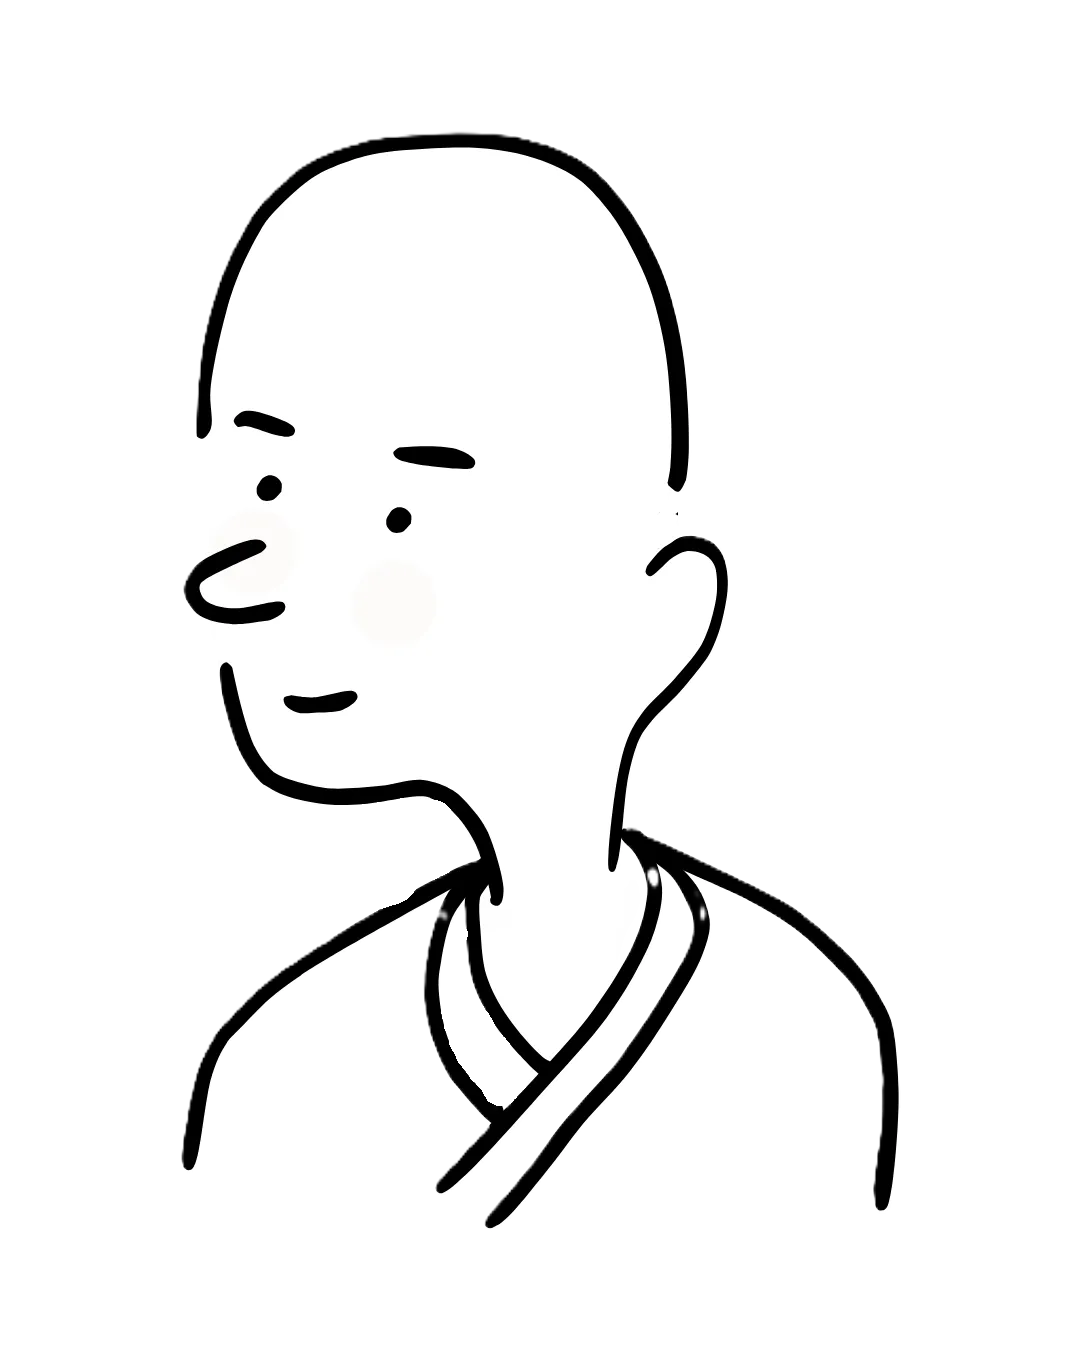
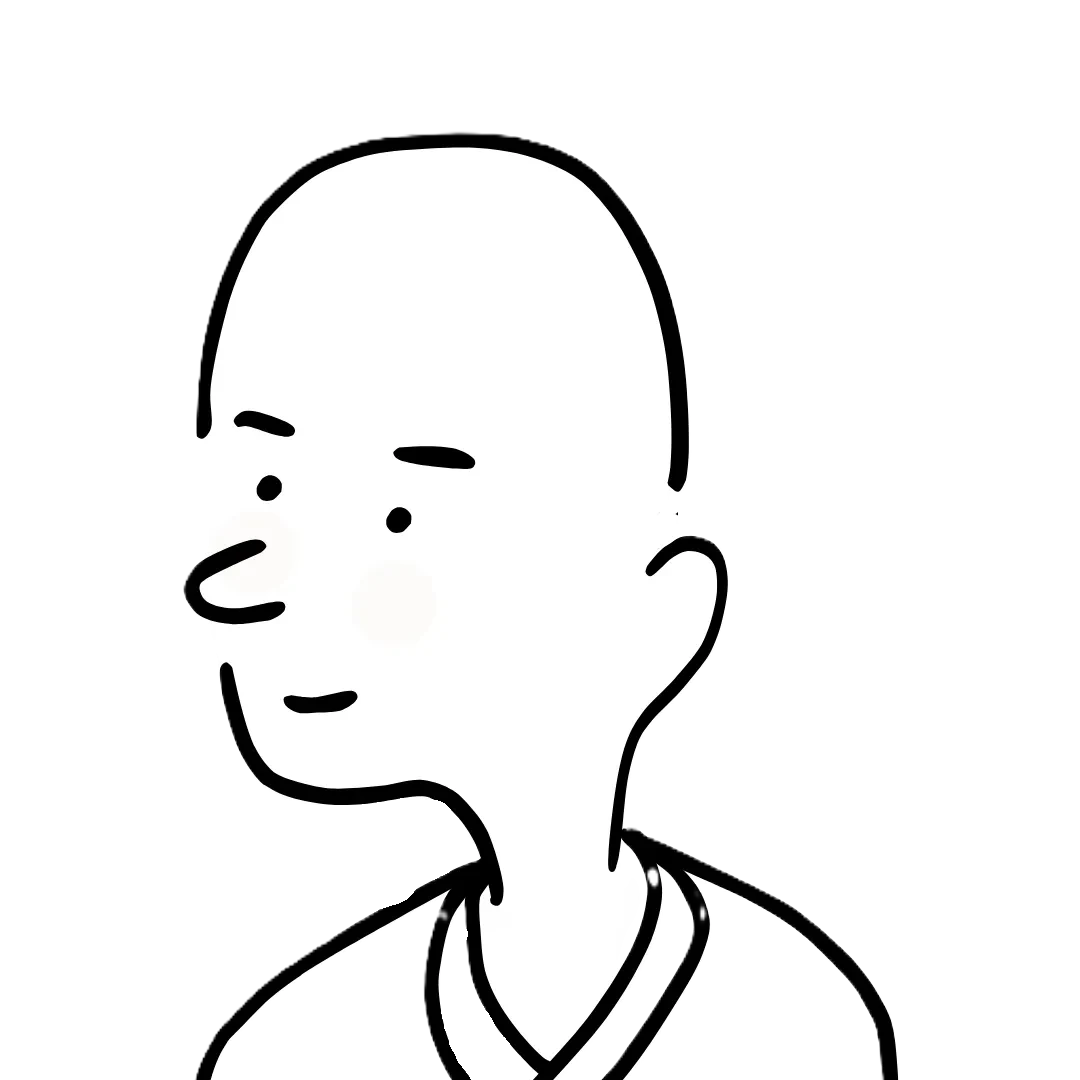
Replace thuan.webp with a pre-cropped square version
The 4:5 source was relying on CSS object-position to avoid clipping
the head outline in circular 1:1 crops; baking in a top-aligned 1:1
crop directly into the file is more reliable across all usages
(thinh-khong hero, cong-dong-o-yen keepers grid).

diff --git a/src/app/thinh-khong/page.tsx b/src/app/thinh-khong/page.tsx
@@ -40,7 +40,7 @@ export default function ThinhKhongPage() {
         </h1>
         <div className="hero-personal" style={{ display: "grid", gridTemplateColumns: "auto 1fr", gap: "2.5rem", alignItems: "center" }}>
           <div className="hero-portrait" style={{ width: "9.5rem", flexShrink: 0 }}>
-            <ImagePlaceholder label="ảnh chân dung · Thuận" src="/assets/thuan.webp" aspectRatio="1/1" objectPosition="center top" style={{ borderRadius: "50%", overflow: "hidden" }} />
+            <ImagePlaceholder label="ảnh chân dung · Thuận" src="/assets/thuan.webp" aspectRatio="1/1" style={{ borderRadius: "50%", overflow: "hidden" }} />
           </div>
           <div>
             <p style={{ fontFamily: "var(--font-sans)", fontSize: "1rem", lineHeight: 1.85, color: "var(--color-ink)", maxWidth: "44ch", margin: "0 0 0.9rem" }}>
